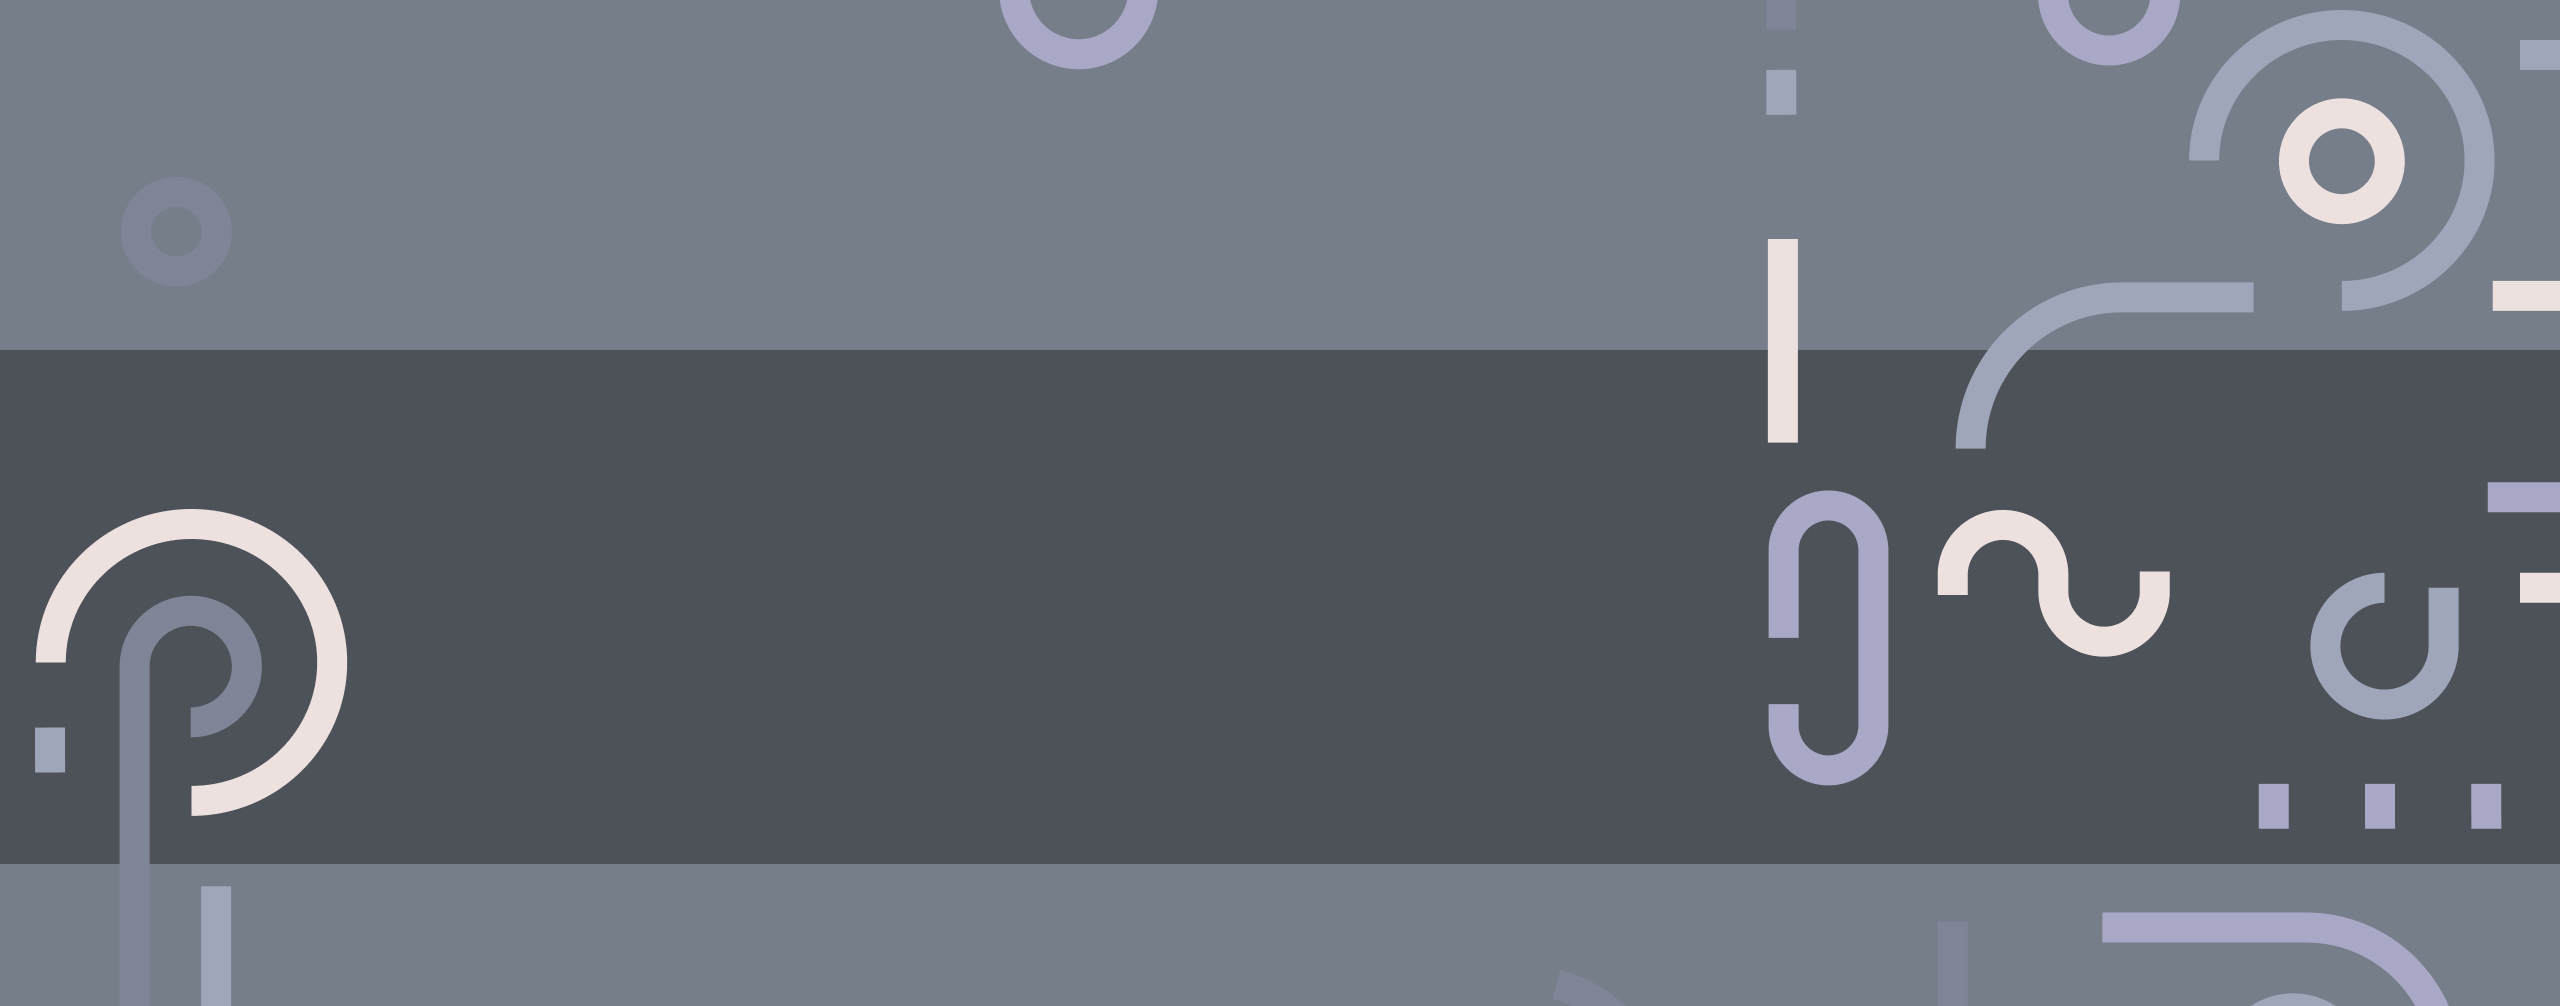
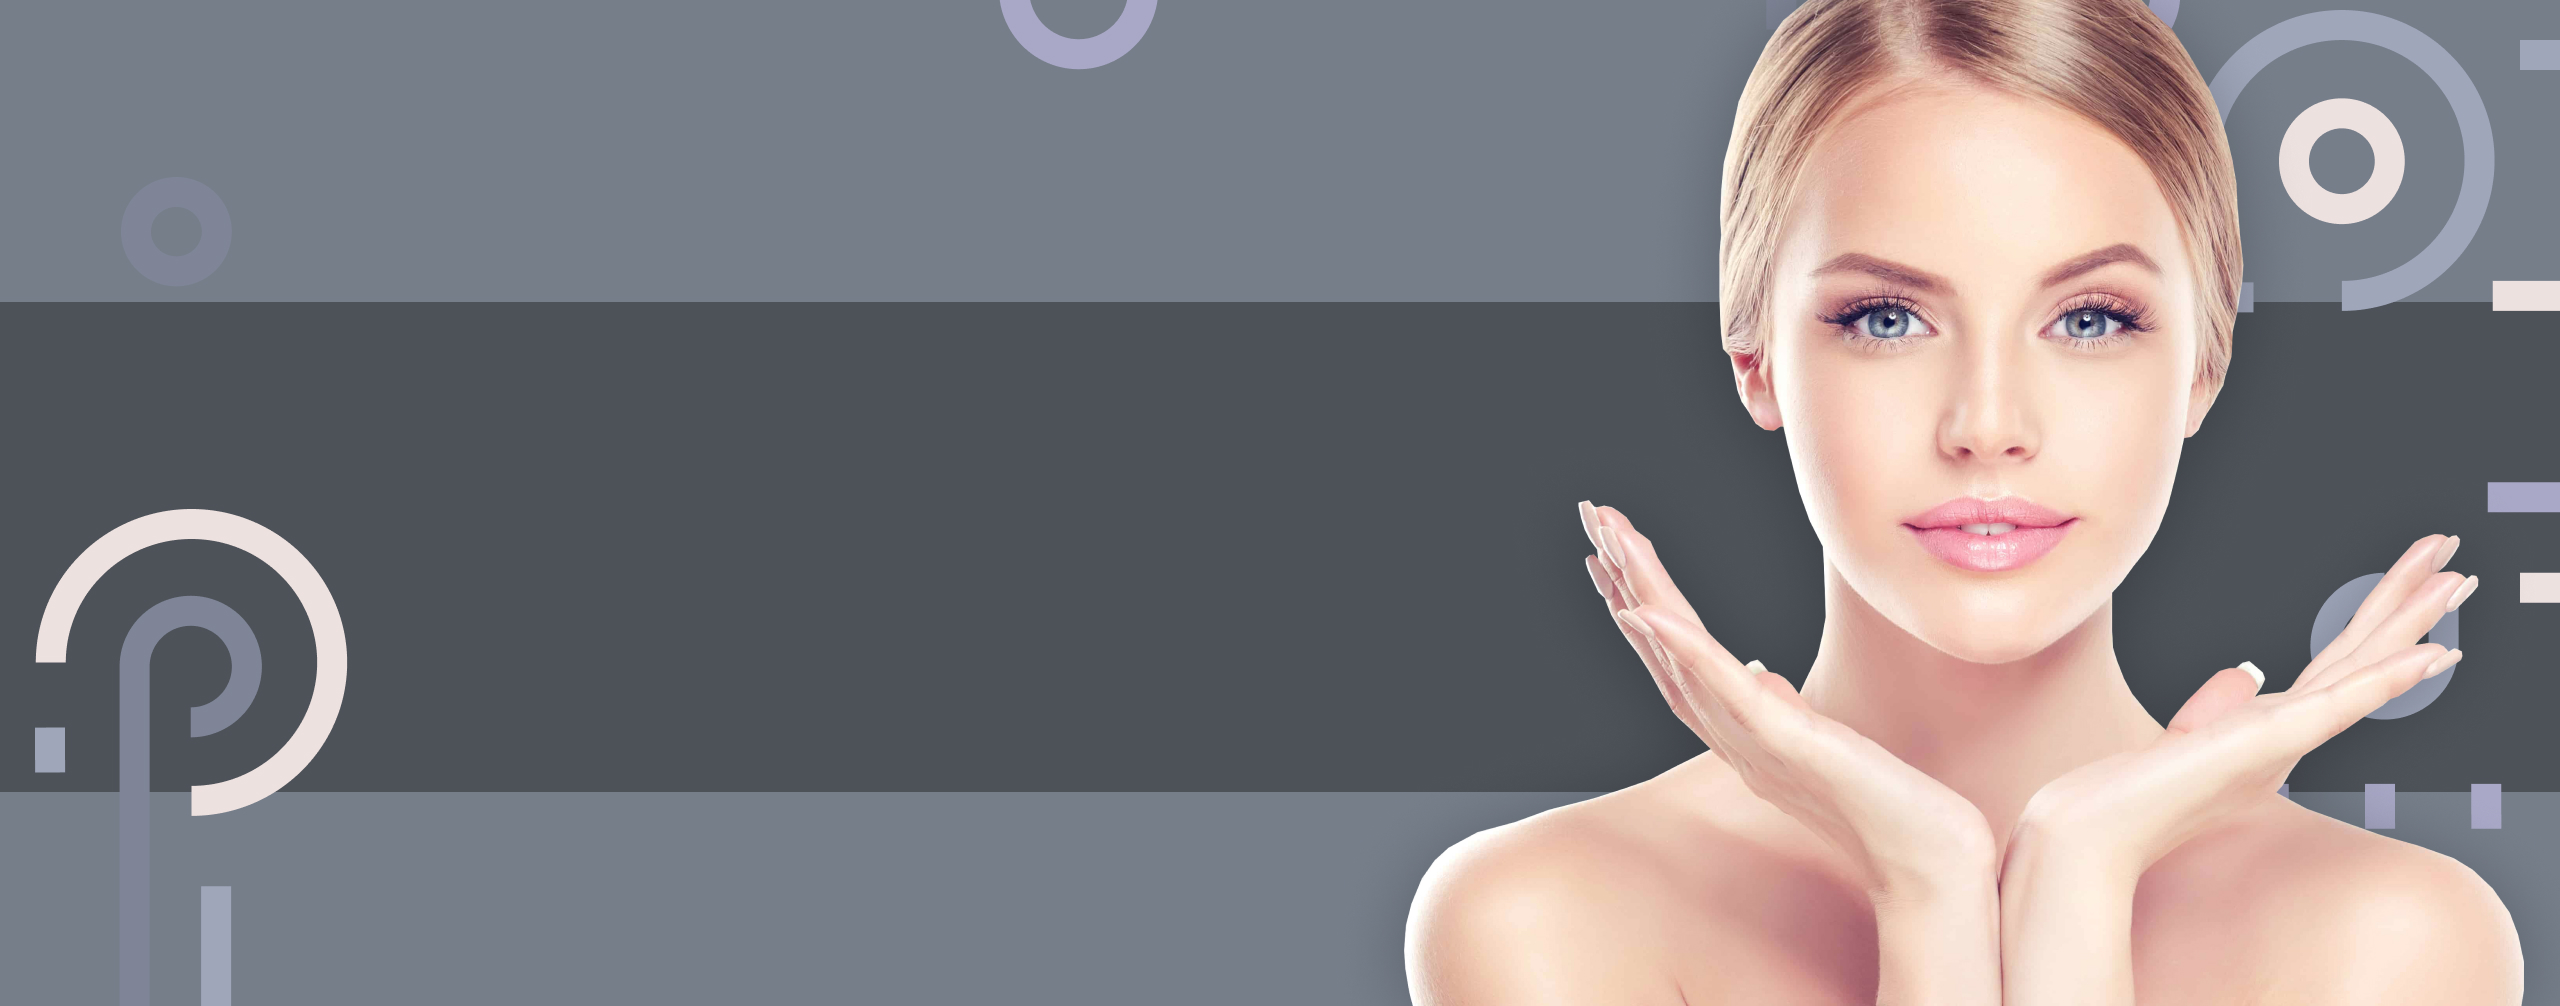
finish main section

diff --git a/laser/src/styles/sections/_main-laser-service.sass b/laser/src/styles/sections/_main-laser-service.sass
@@ -1,7 +1,7 @@
 section.section.main-laser-service
   position: relative
   background:
-    image: url("../assets/img/main-service/main-bg.jpg")
+    image: url("../assets/img/main-service/new-bg.jpg")
     //size: 732px auto, cover
     //position: calc(100% + -79px) bottom, bottom
     size: cover
@@ -11,133 +11,127 @@ section.section.main-laser-service
   min-height: 651px
   @media(min-width: 1920px)
     //background: url("../assets/img/main-service/girl.png") , url("../assets/img/main-service/bg-nogirl.jpg")
-    background: url(../assets/img/main-service/girl.png) 900px 0 no-repeat, url(../assets/img/main-service/bg-nogirl.jpg) 0px 0px round,
+    background: url(../assets/img/main-service/girl.png) 900px 0 no-repeat, url(../assets/img/main-service/new-bg-nogirl.jpg) 0px 0px round,
       size: contain
-
-  @include media-breakpoint-down(md)
+  @include media-breakpoint-down(lg)
+    padding-bottom: 90px
     min-height: auto
     padding-top: 41px
     background-image:  url(../assets/img/main-service/main-bg-tablet.jpg)
-    background-position: calc(100% + 402px) bottom, bottom
-    background-size: 732px auto, 1663px, auto
-    /* background-position: 386px, -517px; */
-    background-position-y: -8px
-    background-size: 1309px
-    background-position-x: -234px
+    background-position-x: -223px
     @media (min-width: 992px) and (max-width: 1200px)
       background:
-        position-x: -411px
+        position-x: -78px
+        size: cover
   @include media-breakpoint-down(sm)
-    background-image: url("../assets/img/main-service/bg-mobile.jpg")
-  @include media-breakpoint-down(sm)
-    padding-top: 17px
-    background-size: 783px
-    background-position-x: -140px
-  img.bg-elem
-    position: absolute
-    top: 0
-    right: 0
-  .container
-    .c-content
-      transform: translate(-45px, -19px)
-      @include media-breakpoint-down(sm)
-        transform: translate(-6px, -19px)
-    .h1-main-title
-      @include font (CormorantGaramond, 400, 80, 60)
+    background-image:  url(../assets/img/main-service/main-bg-mob.jpg)
+    background-size: 796px
+    padding-bottom: 27px
+    padding-top: 12px
+  .c-content
+    transform: translate(-45px, -19px)
+    @include media-breakpoint-down(sm)
+      transform: translate(-6px, -19px)
+  .h1-main-title
+    max-width: 530px
+    @include font (CormorantGaramond, 400, 80, 60)
+    color: $text-color-lightgrey
+    margin-bottom: 58px
+    @include media-breakpoint-down(lg)
+      max-width: 100%
+      font-size: 55px
+      line-height: 40px
+    @include media-breakpoint-down(sm)
+      font-size: 35px
+      line-height: 26px
+      margin-bottom: 37px
+
+
+  .info-list
+    margin-bottom: 40px
+    @include media-breakpoint-down(lg)
+      margin-bottom: 38px
+    @include media-breakpoint-down(sm)
+      margin-bottom: 18px
+
+    li.list-item
+      @include font (Circe, 400, 20, 31)
       color: $text-color-lightgrey
-      margin-bottom: 64px
-      @include media-breakpoint-down(lg)
-        font-size: 55px
-        line-height: 50px
-        margin-bottom: 37px
-      @include media-breakpoint-down(sm)
-        font-size: 35px
-        line-height: 35px
-        margin-bottom: 42px
-
-
-    .info-list
-      li.list-item
-        @include font (Circe, 400, 20, 31)
-        color: $text-color-lightgrey
-        min-width: 150px
-        &:before
-          width: 7.71px
-          height: 7.71px
-          background: #A9A8C6
+      min-width: 150px
+      padding-bottom: 4px
+      &:before
+        width: 7.71px
+        height: 7.71px
+        background: #A9A8C6
+        top: 20px
         @include media-breakpoint-down(lg)
-
-        @include media-breakpoint-down(sm)
-          font-size: 16px
-          line-height: 25px
-    .subtitle
-      @include font (Circe, 700, 24, 37)
-      color: $text-color-lightgrey
-      letter-spacing: 0.231429px
+          top: 9px
       @include media-breakpoint-down(lg)
+        @include font (Circe, 400, 16, 25)
       @include media-breakpoint-down(sm)
-        font-size: 18px
-        line-height: 27px
+        @include font (Circe, 400, 14, 22)
+  .subtitle
+    @include font (Circe, 800, 24, 37)
+    color: $text-color-lightgrey
+    letter-spacing: 0.231429px
+    @include media-breakpoint-down(lg)
+      @include font (Circe, 700, 18, 27)
+      letter-spacing: 0.179948px
+    @include media-breakpoint-down(sm)
+      @include font (Circe, 700, 16, 24)
+      font-size: 16px
+      line-height: 24px
 
-    .position-block
-      //max-width: 540px
-      .custopm-text
-        &__small
-          @include font (Circe, 400, 28.75, 45)
-          color: $text-color-lightgrey
-          margin-bottom: 40px
-          @include media-breakpoint-down(sm)
-            font-size: 20px
-            line-height: 31px
-          &_size
-            @include font (Circe, 400, 23, 45)
-            color: $text-color-lightgrey
-            margin-bottom: 40px
-            margin-left: 7px
-          &:before
-            content: url("../assets/img/main-service/d-block-3.svg")
-            position: absolute
-            top: -28px
-            right: 85px
-            @include media-breakpoint-down(sm)
-              right: -22px
-        &__bold
-          @include font (Circe, 900, 28.75, 45)
-          color: $text-color-lightgrey
-          @include media-breakpoint-down(sm)
-            font-size: 19px
-            line-height: 30px
-        &__through
-          @include font (Circe, 300, 17.25, 25)
-          color: $text-color-lightgrey
-          text-decoration: line-through
-          @include media-breakpoint-down(sm)
-            font-size: 12px
-            line-height: 19px
-      .c-span
-        position: relative
-        margin-left: 43px
-        &:before
-          content: url("../assets/img/main-service/d-block-1.svg")
-          position: absolute
-          top: -15px
-          left: -42px
-        &:after
-          content: url("../assets/img/main-service/d-block-2.svg")
-          position: absolute
-          top: -18px
-          right: -44px
-          @include media-breakpoint-down(sm)
-            display: none
+  .position-block
+    position: relative
+    max-width: 640px
+    @include media-breakpoint-down(sm)
+      max-width: 250px
+    &:before
+      content: ''
+      background:
+        image: url(../assets/img/main-service/vector.svg)
+      display: block
+      width: 111px
+      height: 204px
+      position: absolute
+      top: -20px
+      right: -28px
+      @include media-breakpoint-down(lg)
+        display: none
 
+  .btn-simple
+    width: 159px
+    height: 38px
+    @include media-breakpoint-down(sm)
+      margin: 0 auto
 
 
 
   .bold
     @include  font(Circe, 700, 22, 26)
+    @include media-breakpoint-down(lg)
+      font-size: 18px
+      line-height: 28px
+    @include media-breakpoint-down(sm)
+      font-size: 14px
+      line-height: 22px
+
   .line-through
     @include  font(Circe, 700, 22, 26)
     text-decoration: line-through
+    @include media-breakpoint-down(lg)
+      font-size: 16px
+      line-height: 25px
+    @include media-breakpoint-down(sm)
+      font-size: 14px
+      line-height: 22px
   .large
     @include  font(Circe, 800, 30, 47)
+    @include media-breakpoint-down(lg)
+      font-size: 23px
+      line-height: 26px
+    @include media-breakpoint-down(sm)
+      font-size: 18px
+      line-height: 28px
 
